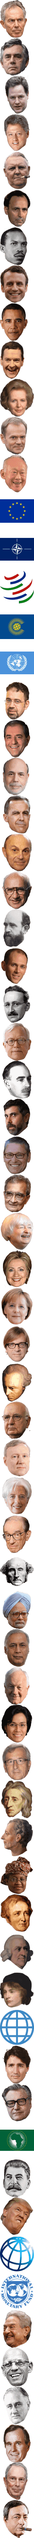
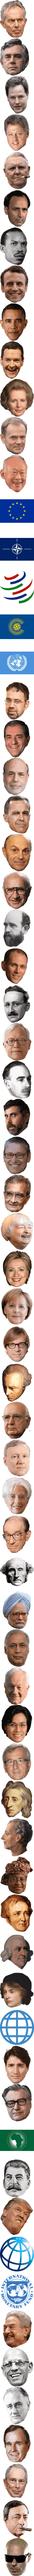
Add Mr. Worldwide
+ Fix Bloomberg

diff --git a/_flair.scss b/_flair.scss
@@ -80,7 +80,8 @@ $image-flairs:
 	fdr,
 	bush,
 	bloomberg,
-	draghi
+	draghi,
+	mrworldwide
 ;
 
 $icon-flairs:
